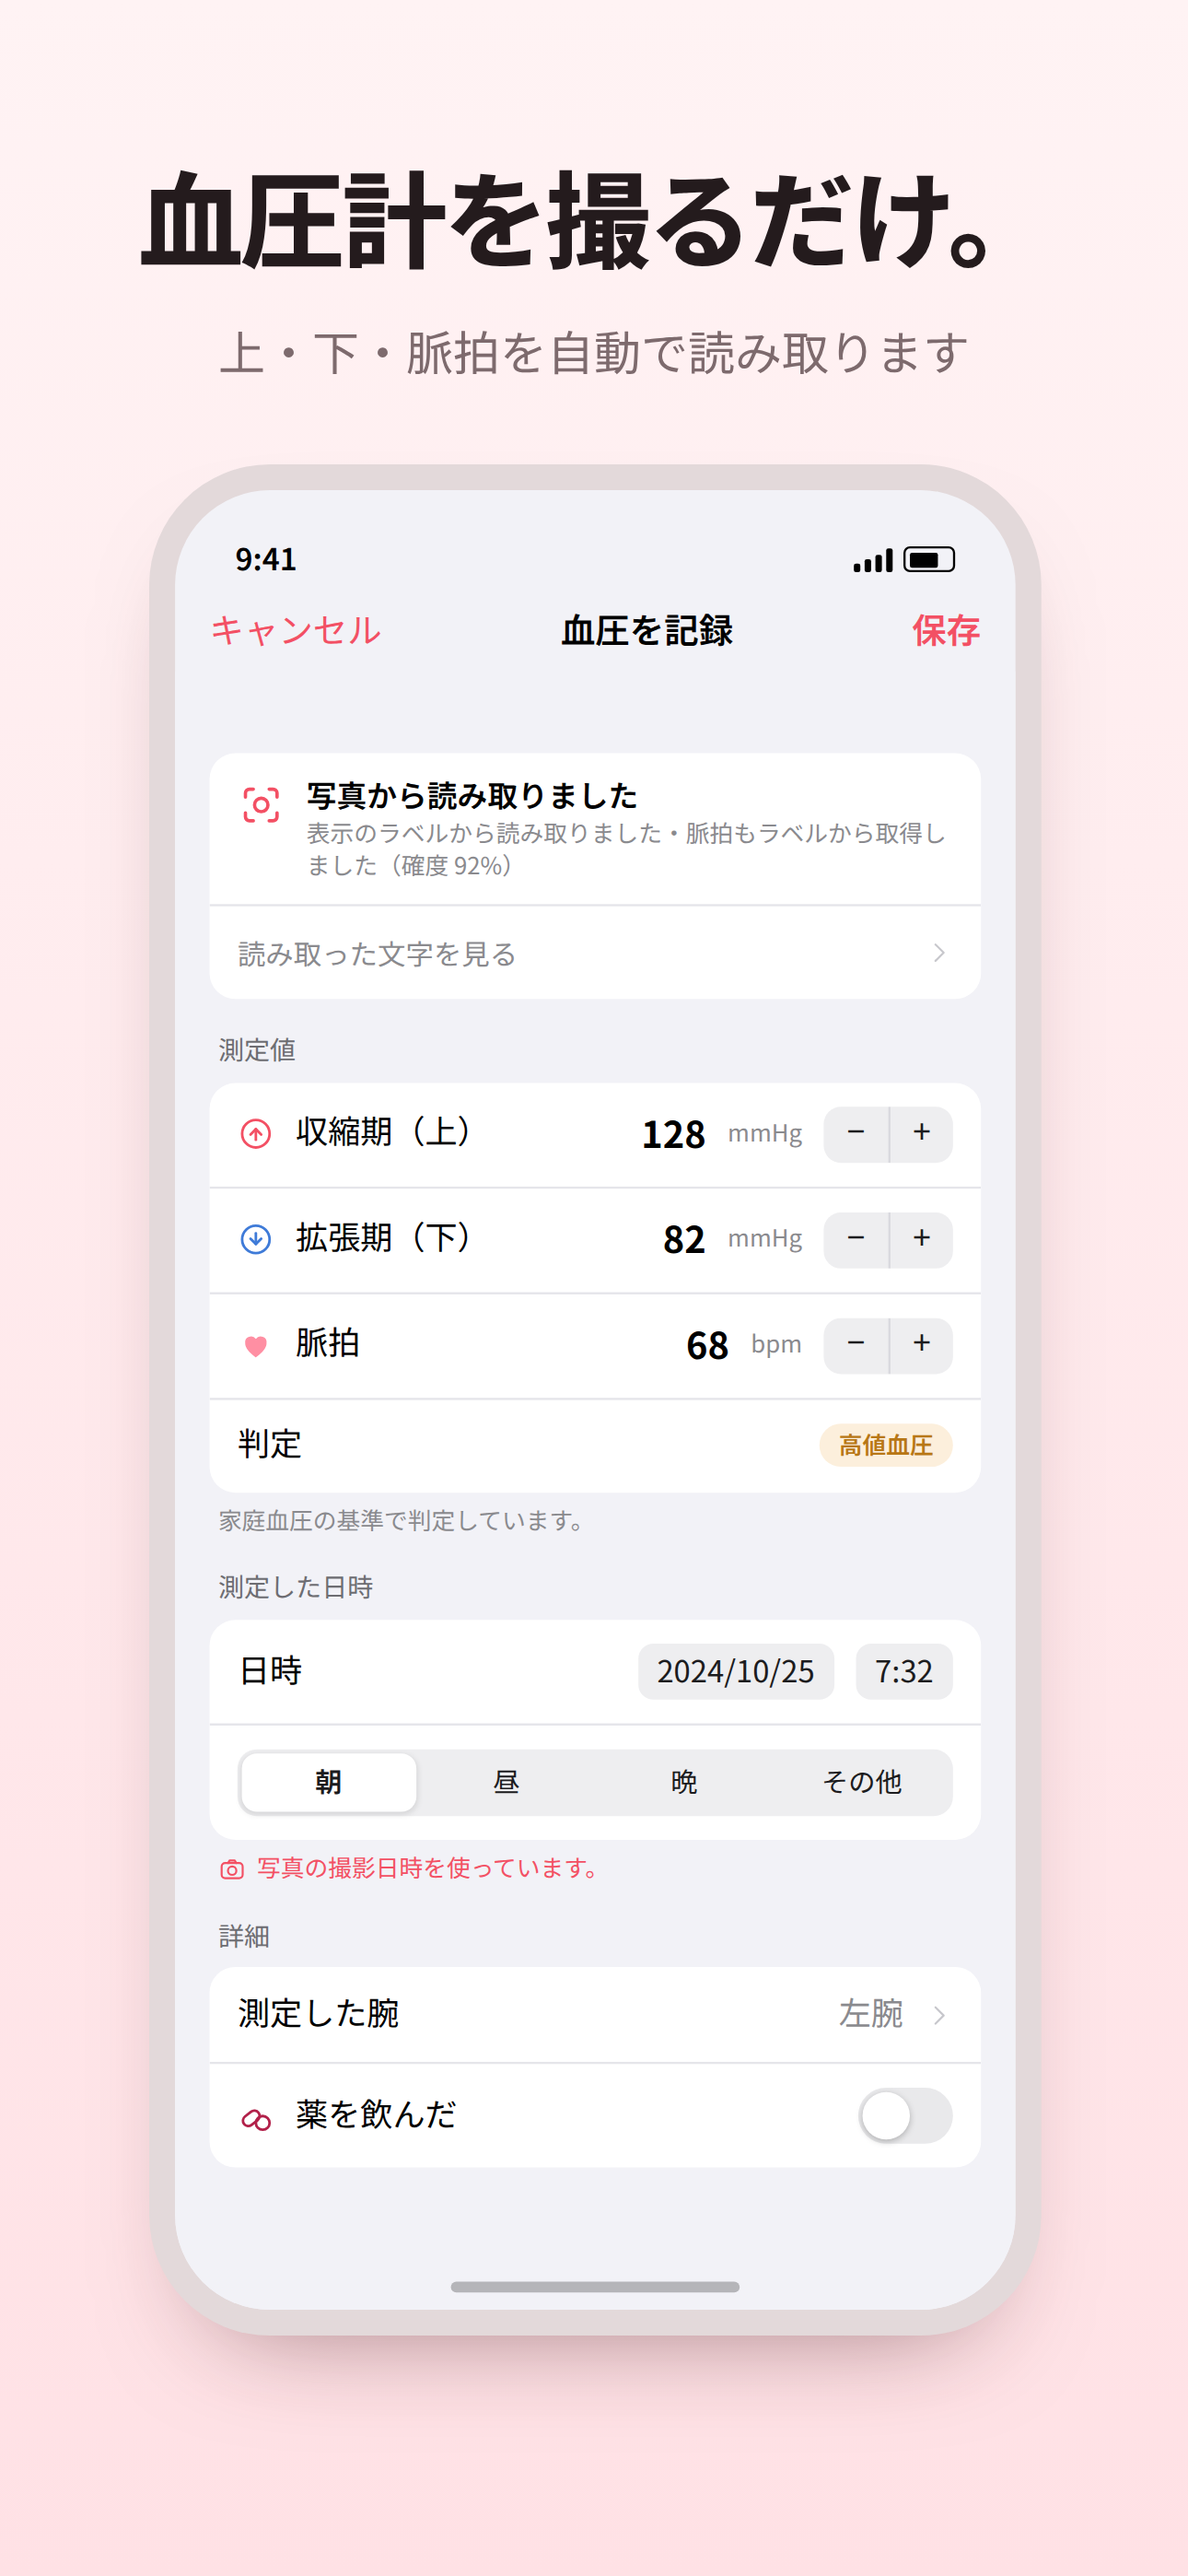
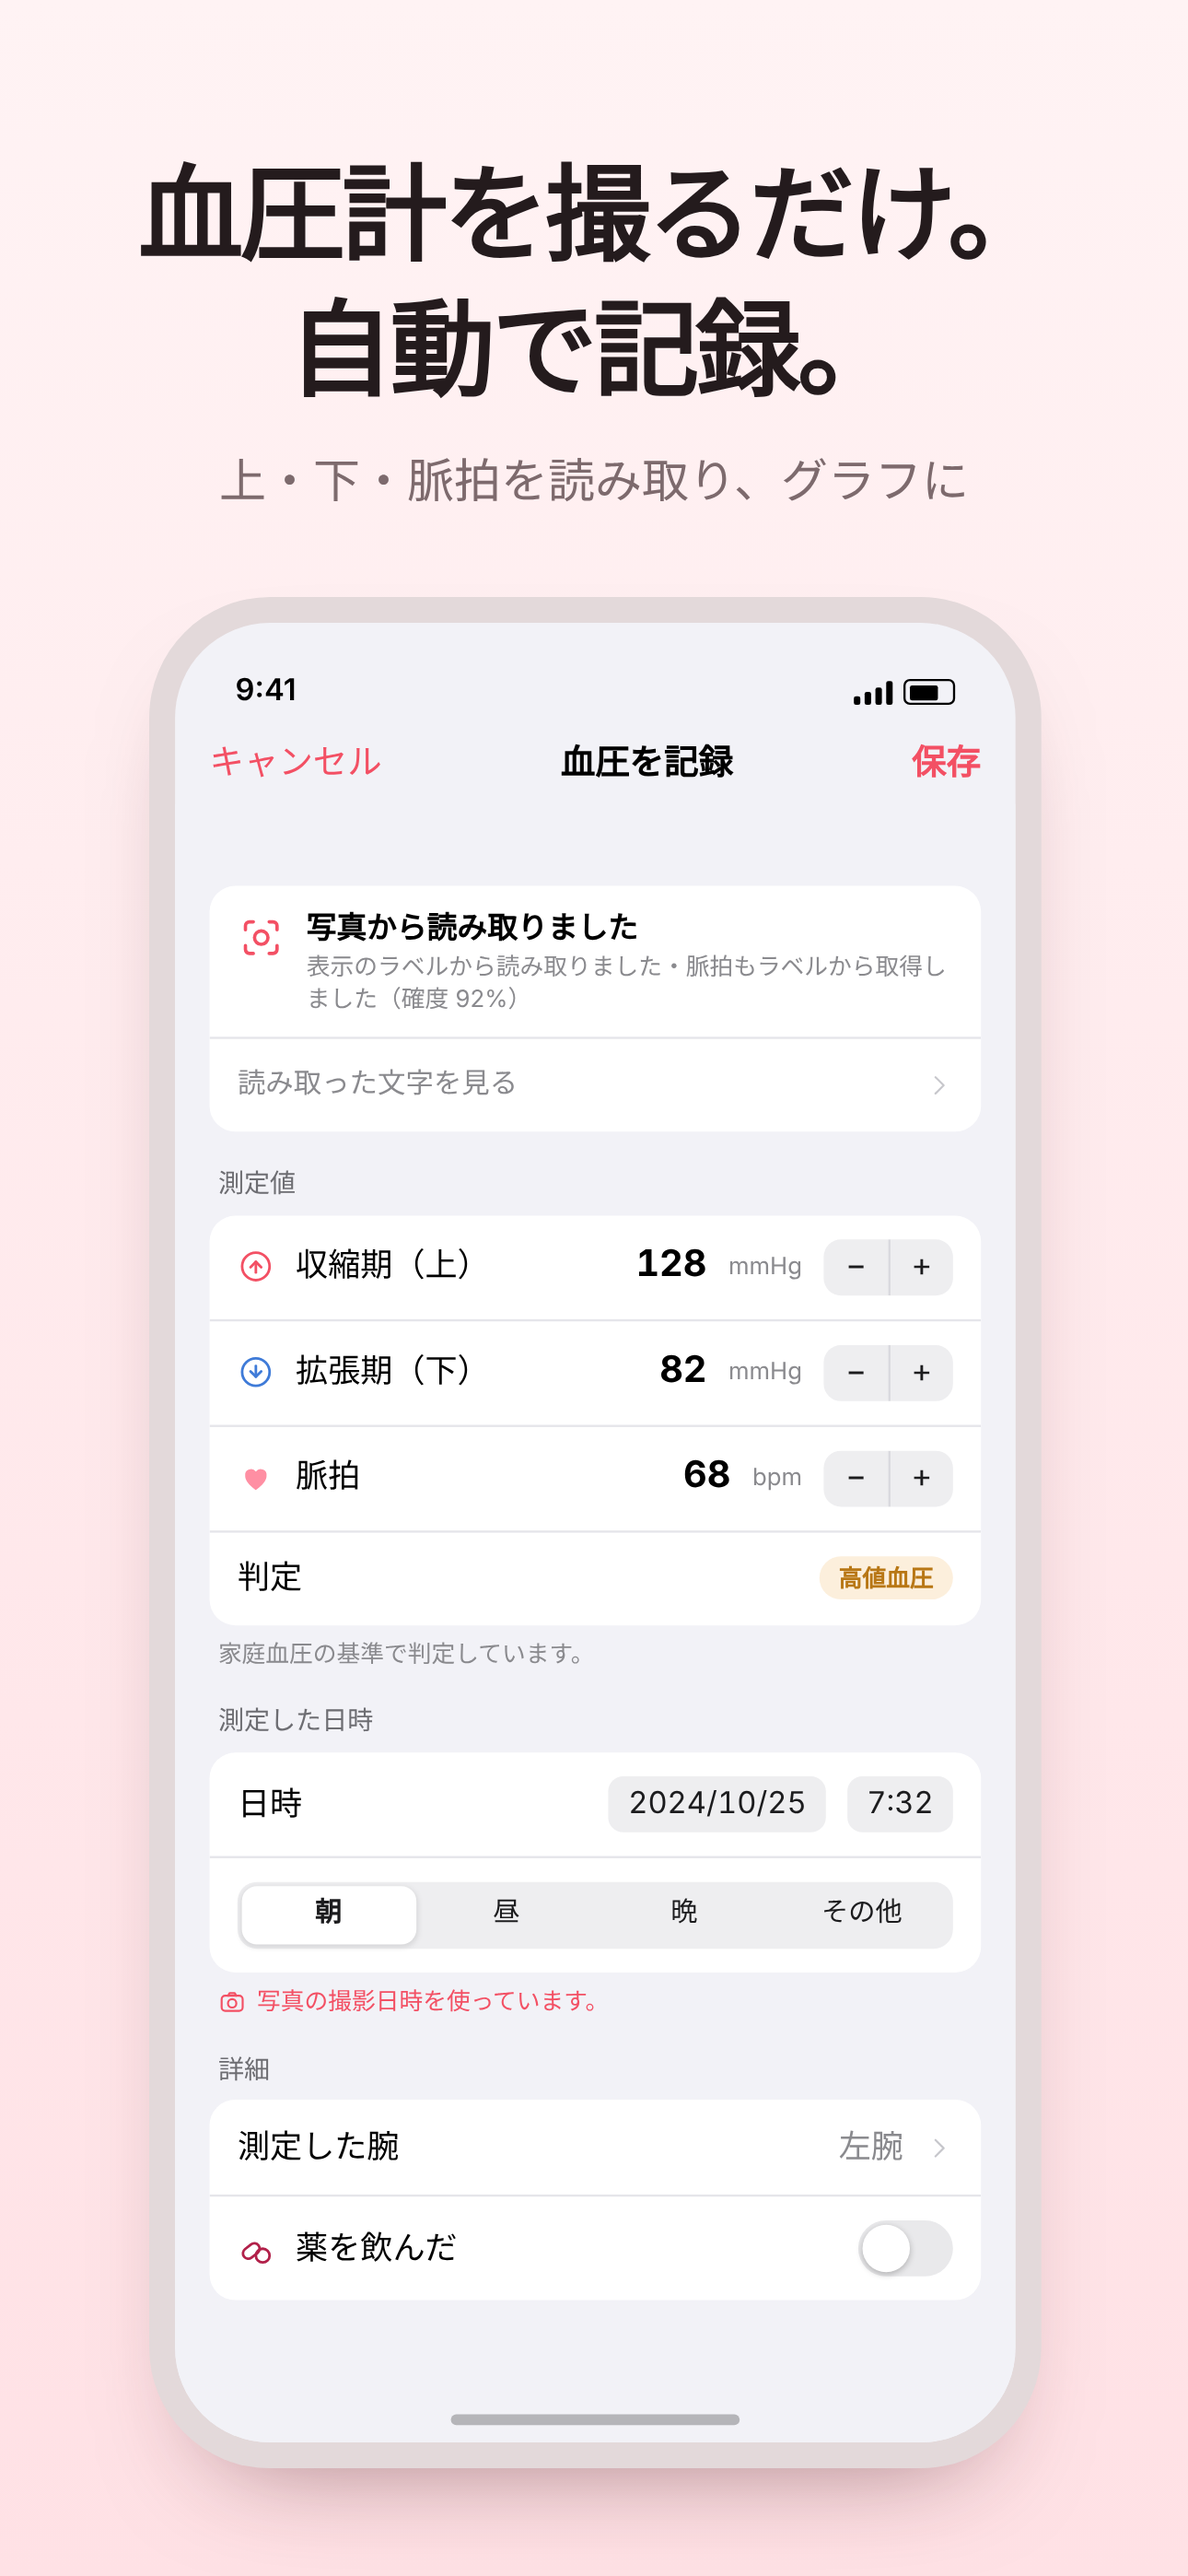
1.4：版番号を 1.4 (1) に、サブタイトル・キーワード・1枚目のスクリーンショットを見直し、新機能の文面と登録情報を追加 (#4)
Claude-Session: https://claude.ai/code/session_018wxypEqDg8ysyQn1QG2gLG

diff --git a/Store/generate_screenshots.py b/Store/generate_screenshots.py
@@ -39,7 +39,7 @@ SCALE = 3
 
 # (見出し, 添え書き, screens-source.html 内の端末ブロックの番号, 背景)
 SHOTS = [
-    ("血圧計を撮るだけ。", "上・下・脈拍を自動で読み取ります", 1, "warm"),
+    ("血圧計を撮るだけ。\n自動で記録。", "上・下・脈拍を読み取り、グラフに", 1, "warm"),
     ("撮りためた写真も、\nまとめて記録。", "何枚でも一度に読み取って保存", 2, "warm"),
     ("朝と晩の平均が、\nひと目でわかる。", "直近の傾向と目標達成率をホームに", 0, "cool"),
     ("見たい期間を、\n見たい時間帯で。", "朝・昼・晩・平均を切り替えて確認", 4, "cool"),

diff --git a/Store/store-listing.md b/Store/store-listing.md
@@ -13,7 +13,7 @@
 ## サブタイトル（30 文字以内）
 
 ```
-写真で撮るだけ、血圧の記録
+血圧計を撮るだけで自動入力・グラフ
 ```
 
 ## プロモーションテキスト（170 文字以内・審査なしで差し替え可）
@@ -25,8 +25,10 @@
 ## キーワード（100 文字以内・カンマ区切り、スペースは入れない）
 
 ```
-血圧,血圧記録,血圧管理,血圧手帳,高血圧,脈拍,家庭血圧,健康管理,記録,グラフ,ヘルスケア,自動入力,減塩,通知
+血圧計,血圧手帳,血圧ノート,血圧管理,血圧日記,高血圧,低血圧,脈拍,心拍,家庭血圧,朝晩,平均,グラフ,写真,カメラ,読み取り,自動入力,ヘルスケア,健康管理,手帳,日記,通知,減塩,無料
 ```
+
+（1.4 で変更。アプリ名で拾える「血圧」「記録」を外し、空いた分で検索語を増やした。2026-11-21 週次分析の施策 A7764a929）
 
 ## 説明（4000 文字以内）
 
@@ -84,6 +86,13 @@
 ・写真からの読み取り精度を改善しました。血圧計の液晶の数字（特に「1」）や、脈拍と時刻が並ぶ表示も読み取りやすくなりました。
 ・カメラで撮影するときに、目安の枠と撮り方のコツを表示するようにしました
 ・アプリの改善のため、利用状況の集計（アクセス解析）を導入しました。記録した血圧・脈拍・メモ・写真などの内容は送信しません。
+・内部の動作を改善しました。
+```
+
+## バージョン 1.4 の「このバージョンの新機能」
+
+```
+・記録を続けている方に、App Store での評価をお願いする画面を表示するようにしました（何度も表示されることはありません）
 ・内部の動作を改善しました。
 ```
 
@@ -256,7 +265,7 @@
 
 | ファイル | 見出し |
 | --- | --- |
-| 01.png | 血圧計を撮るだけ。 |
+| 01.png | 血圧計を撮るだけ。自動で記録。 |
 | 02.png | 撮りためた写真も、まとめて記録。 |
 | 03.png | 朝と晩の平均が、ひと目でわかる。 |
 | 04.png | 見たい期間を、見たい時間帯で。 |
